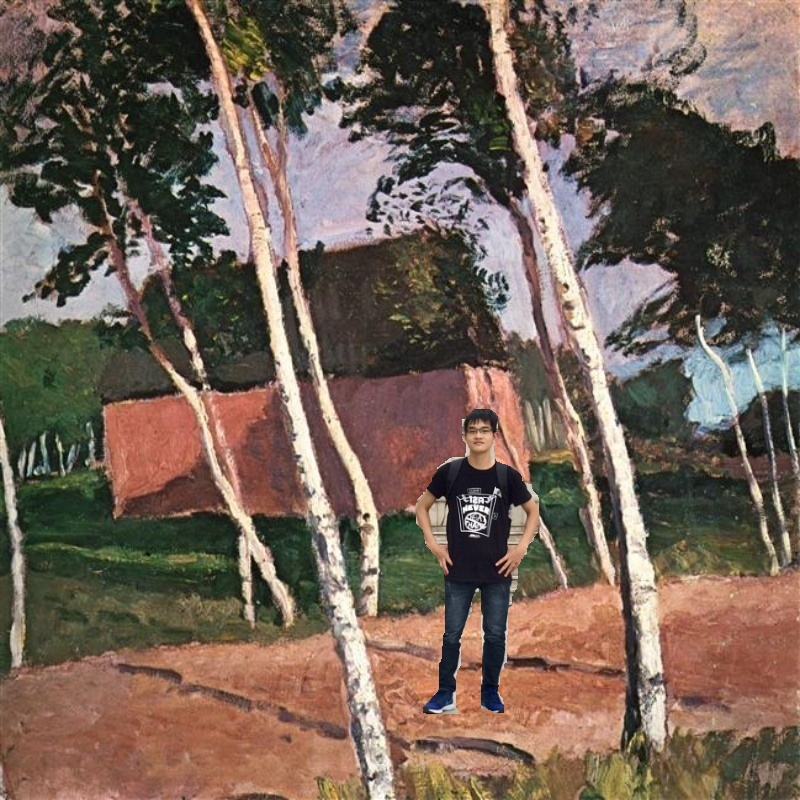
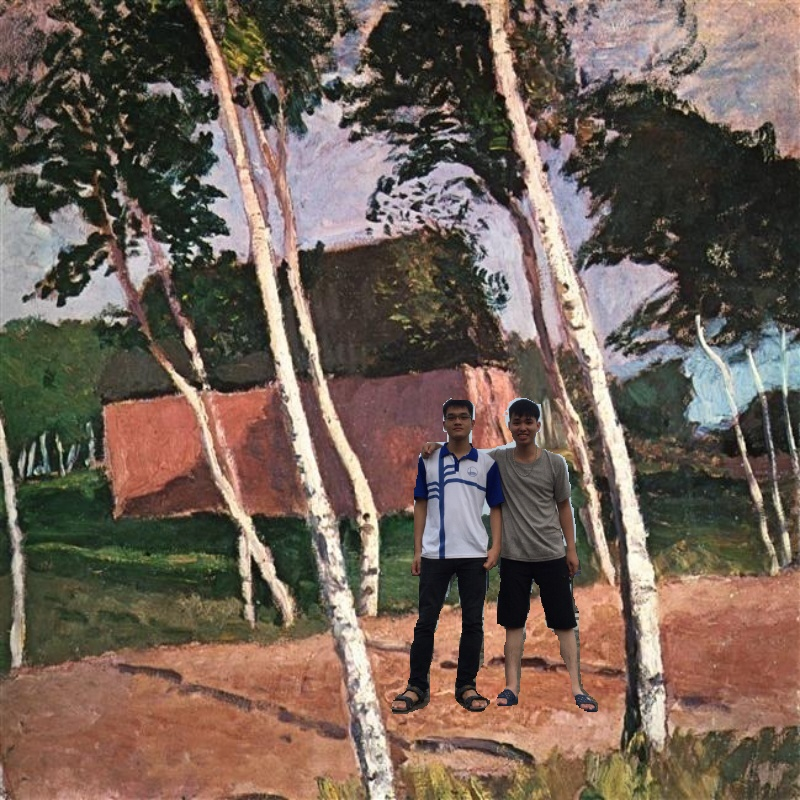
test

Changed region(s): [[0.4688, 0.5, 0.75, 0.9062]]

diff --git a/image_cutter.py b/image_cutter.py
@@ -24,7 +24,7 @@ style_img = cv2.imread('data/style.jpg')
 style_img = cv2.resize(style_img, (800, 800))
 
 target_img = cv2.imread('data/1.jpg')
-target_img = imutils.resize(target_img, width=800)[200:,300:]
+target_img = imutils.resize(target_img, width=800)[300:,100:]
 
 cv2.namedWindow('test')
 cv2.setMouseCallback('test', onmouse)
@@ -36,7 +36,7 @@ cv2.destroyAllWindows()
 mask = np.zeros(target_img.shape)
 cv2.drawContours(mask, [np.array(points)], -1, (0, 255, 0), -1)
 
-scale = 0.92
+scale = 0.6
 mask = cv2.resize(mask, (int(mask.shape[1] * scale), int(mask.shape[0] * scale)))
 target_img = cv2.resize(target_img, (int(target_img.shape[1] * scale), int(target_img.shape[0] * scale)))
 
@@ -57,7 +57,7 @@ pickle.dump(obj, open('obj.pkl', 'wb'), pickle.HIGHEST_PROTOCOL)
 # Create style
 cv2.imwrite('data/style.jpg', style_img)
 
-tx, ty = 380, -620
+tx, ty = 320, 340
 # Create naive
 naive = style_img.copy()
 for (i,j) in obj:
